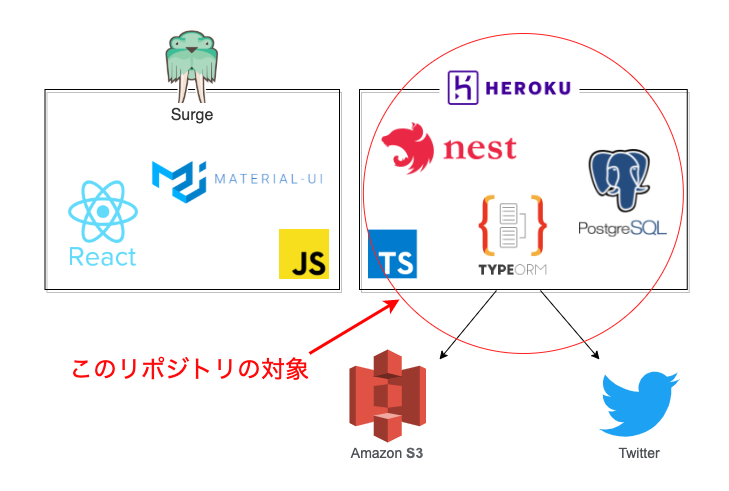
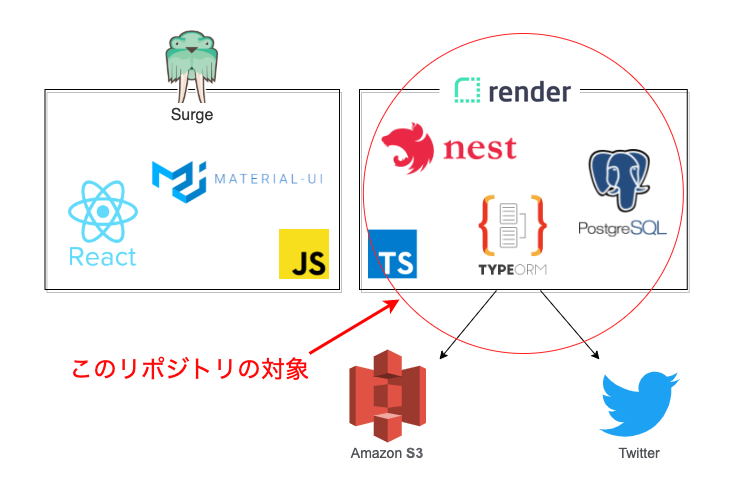
構成変更に伴う修正

Changed region(s): [[0.6036, 0.1222, 0.7846, 0.2138]]

diff --git a/README.md b/README.md
@@ -49,7 +49,7 @@ AWS_BUCKET=
 
 # Twitter に投稿するための Twitter に関する定義
 TWITTER_CONSUMER_KEY=
-TWITTER_CONSUMER_SECRET
+TWITTER_CONSUMER_SECRET=
 TWITTER_ACCESS_TOKEN_KEY=
 TWITTER_ACCESS_TOKEN_SECRET=
 ```
